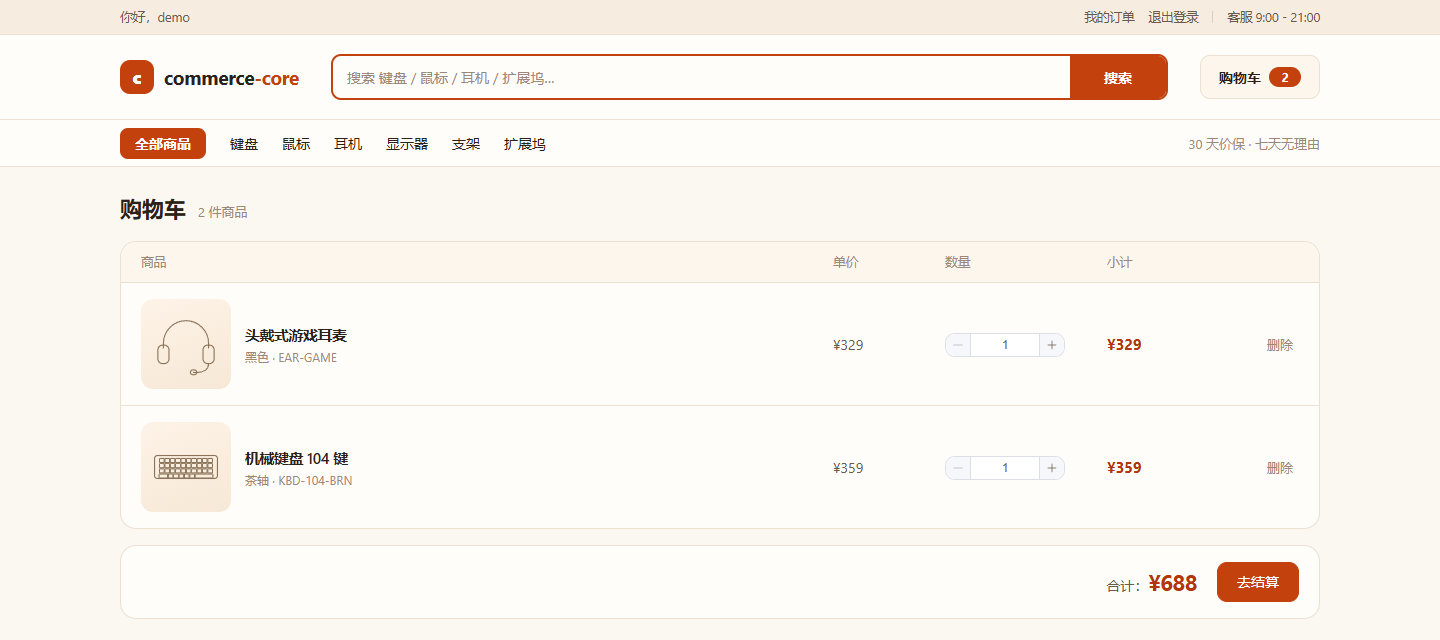
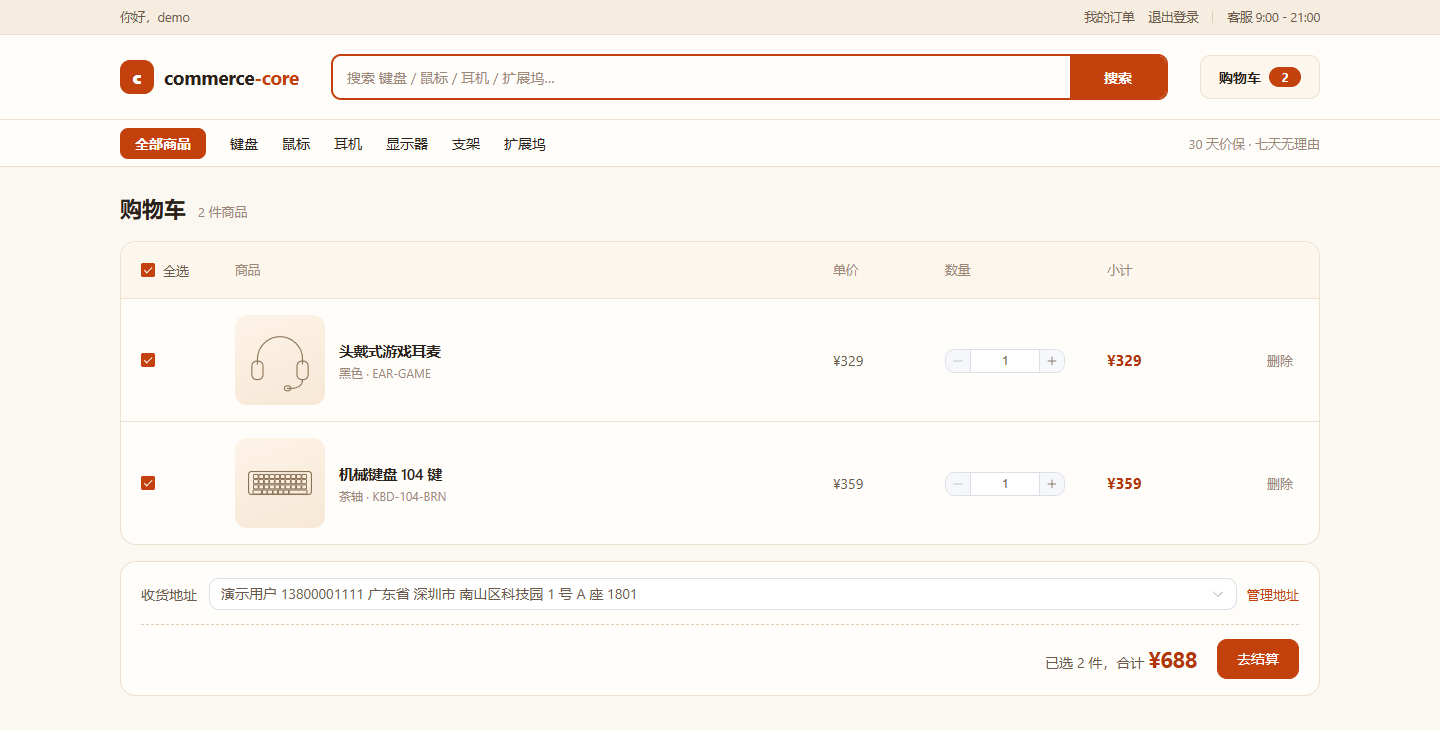
docs: S11 上线后同步截图、STATUS 与 phase11 证据

diff --git a/STATUS.md b/STATUS.md
@@ -1,29 +1,28 @@
 # STATUS
 
-> 更新于 2026-11-20（S11 开发完成，待合回 main 上线）。滚动覆盖，不追加历史。目标：10 秒读完。
+> 更新于 2026-11-20（S11 已上线并验证）。滚动覆盖，不追加历史。目标：10 秒读完。
 
 ## 现在在哪
 
 **一期 S0–S8 已交付并封口**：业务闭环在公网跑通，CI/CD 与回滚演练过，
 外部独立审查 10 项全部修完并终审通过（审查对象 `4ec7f93`）。
 
-**二期**：S9「视觉与身份」、S10「购物车」已上线；**S11「地址与搜索」在 `phase2` 做完，尚未合回 main**。
-S10 的补充「购物车逐行勾选」也在 `phase2` 上。
+**二期**：S9「视觉与身份」、S10「购物车（含逐行勾选）」、S11「地址与搜索」都已上线。
 
 - 公网：`http://120.24.67.82:8080`（无域名无 HTTPS）
-- 线上版本：`65094bd`（`.current_tag`；S9 + S10 的内容）
+- 线上版本：`24a870c`（`.current_tag`）
 - 线上数据：30 个商品（6 类 × 5）、35 个 SKU、3 张券
 - 服务器 6 个容器：api(healthy) / web / worker / beat / mysql(healthy) / redis(healthy)
 - 测试：**176 个用例**全过；注释密度 1.9%
-- 分支：二期在 `phase2` 上开发，**每个阶段完成合回 main**（一次合并 = 一次部署）
+- 分支：`main` 与 `phase2` 都指向 `24a870c`；**下一阶段起重新在 `phase2` 上开发**
 
 ## 下一步
 
-**S11 上线**：合 `phase2` → `main`，CI 绿后自动部署。
-`cart.0002`、`address.0001`、`trade.0002` 三个迁移由 `deploy.sh` 自动执行。
-上线后用 `demo` 账号走一遍 建地址 → 勾选结算 → 订单详情看快照与时间线。
+**S12 评论**：`review` 表、仅已完成订单的明细可评、每条明细一次、商品详情页展示评分与评论。
 
-之后进 **S12 评论**：`review` 表、仅已完成订单的明细可评、商品详情页展示评分。
+## 卡点
+
+无。
 
 ## 卡点
 
@@ -48,8 +47,7 @@ S10 的补充「购物车逐行勾选」也在 `phase2` 上。
 
 ## 未验证 / 已知边界
 
-- **S9、S10 已上线**：`/api/v1/products` 线上返回 30 个、8 个热销、每类 5 个、无缺封面；
-  购物车接口已生效（未登录 401），线上跑通过 加购 → 结算 → 待支付订单
+- **S9、S10、S11 已上线**：30 个商品带图、注册可用、购物车（含勾选）、地址与下单快照都在公网生效
 - 一期审查结论只覆盖提交 `4ec7f93`，二期新增代码不在其覆盖范围内
 - 注册与登录**还没有限流**（S13 统一接）
 - 首页「热销」是后台手选的 8 个，不是销量排序

diff --git a/docs/phases/phase11.md b/docs/phases/phase11.md
@@ -73,6 +73,25 @@ eslint 无输出；vite build 成功
 3. 订单详情出现「收货地址」与「进度」，支付后再看，时间线多一个「已支付」节点；
 4. 列表页带 `?keyword=键盘` 打开，筛选栏回填搜索词，结果 5 件。
 
+## 上线
+
+| 项 | 结果 |
+|---|---|
+| 合并 | `main` 收到 `24a870c`，推 GitHub 与 Gitee；CI 四段全绿 |
+| 部署 | `.current_tag` 从 `65094bd` 变 `24a870c`，6 个容器全 Up，api healthy |
+| 迁移 | `cart.0002`、`address.0001`、`trade.0002` 由 `deploy.sh` 自动执行 |
+| 接口 | 未登录访问 `/addresses`、`/cart/items` 均 401，说明路由与新表都生效 |
+| 线上联调 | `demo` 账号：新增一条地址（自动默认）→ 加购两件 → 购物车显示地址与「已选 2 件 ¥688」 |
+
+README §2 的购物车截图换成线上实拍（带勾选与地址栏）。
+
+## 流程偏差
+
+这次的两个提交（购物车逐行勾选、S11）**直接落在 `main` 上**，没有走 `phase2` 分支再合并。
+原因是我在 S10 收尾时切到了 `main` 就没切回来，后面两次 `git add/commit` 都提交在当前分支。
+代码内容不受影响，但 `main` 少了两个 `--no-ff` 合并点，`git log --first-parent` 看不出阶段边界。
+之后继续在 `phase2` 上开发，收尾时把 `phase2` 快进到 `main` 保持一致。
+
 ## 踩到的坑
 
 - **Django 开发服务器带 `--noreload` 不会加载新 app**：新增 `address` 之后页面一直 404，

diff --git a/README.md b/README.md
@@ -58,8 +58,8 @@
 
 ![购物车](docs/images/ui-cart.png)
 
-**购物车**：同一个 SKU 只占一行，改数量就是改这一行；顶栏角标跟着变。
-点「去结算」整辆一起下单，成功后车被清空。
+**购物车**：同一个 SKU 只占一行，改数量就是改这一行；勾选框决定这次结算哪些行，
+顶栏角标跟着变。结算区选收货地址，点「去结算」只把勾中的行转成订单，其余留在车里。
 
 ![订单列表](docs/images/ui-orders.png)
 
